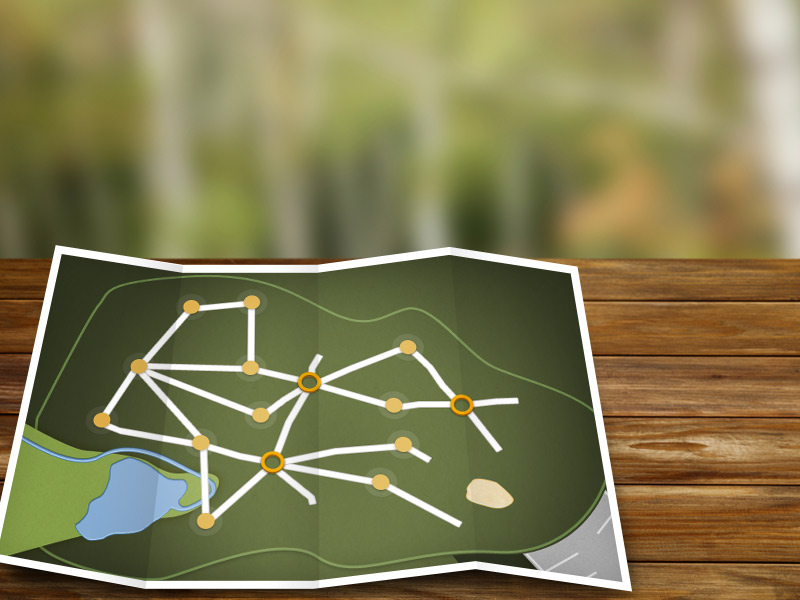
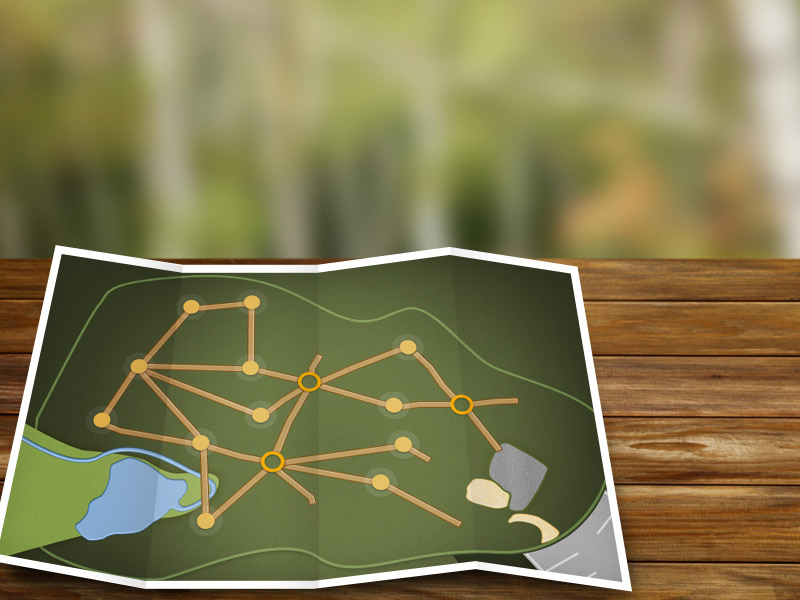
added all other points and updates some images, e.g our map

diff --git a/index.html b/index.html
@@ -35,7 +35,18 @@
 		</section>
 		<map name="Skyloft-Map">
 			<!-- coords definition: x1,y1,x2,y2,x3,y3,x4,y4 -->
-			<area shape="poly" coords="320,378,322,384,402,352,397,347" href="#" data-image="kletter1" data-position-top="172" data-position-left="310" data-arrow-position="left" title="Schlingergrad " alt="Sie sind bereit für das eigentliche Abenteuer. Es gilt, unser Drahtseil über die 20 Meter lange Schlucht in schwindelnder Höhe zu überwinden.">
+			<!-- Kletterstart -->
+			<area shape="poly" coords="473,400,473,406,518,403,518,396" href="#" alt="Sie steigen über eine 14 Meter lange Holzleiter zur Basis-Plattform in die Baumkronen auf." title="Kletterstart" data-image="kletter1" data-position-top="208" data-position-left="200" data-arrow-position="right">
+			<!-- Tanzende Balken -->
+			<area shape="poly" coords="456,394,451,399,410,354,416,349" href="#" alt="Die Balken unter Ihnen schwingen. Nach dem ersten Schritt stellt sich Ihr Körper darauf ein. Sie werden mutiger und spüren, was in Ihnen steckt. " title="Tanzende Balken" data-image="kletter1" data-position-top="172" data-position-left="137" data-arrow-position="right">
+			<!-- Schlingergrad -->
+			<area shape="poly" coords="320,378,322,384,402,352,397,347" href="#" data-image="kletter1" data-position-top="172" data-position-left="182" data-arrow-position="center" title="Schlingergrad " alt="Sie sind bereit für das eigentliche Abenteuer. Es gilt, unser Drahtseil über die 20 Meter lange Schlucht in schwindelnder Höhe zu überwinden.">
+			<!-- Okerbrücke -->
+			<area shape="poly" coords="302,391,308,393,279,453,273,450" href="#" alt="Ihr Start in Ihr persönliches Abenteuer führt Sie über die 15 Meter lange Brücke. Sie setzen auf der schmalen, schwankenden Brücke einen Schritt vor den anderen und Ihr Blick ist starr nach vorne gerichtet." title="Okerbrücke" data-image="kletter1" data-position-top="219" data-position-left="117" data-arrow-position="center">
+			<!-- Schlaufengasse -->
+			<area shape="poly" coords="284,462,282,468,371,485,372,477" href="#" alt="Die Schlaufengasse ist ein richtiger Genuss, schnell koordiniert der Körper die Bewegungen. Sie fühlen sich rundum wohl." title="Schlaufengasse" data-image="kletter1" data-position-top="275" data-position-left="161" data-arrow-position="center">
+			<!-- Back to earth -->
+			<area shape="poly" coords="389,483,461,521,458,527,385,488" href="#" alt="130 Meter weit fliegen Sie auf unserer Seilbahn durch eine Waldschneise zurück zur Basis. Ein großartiger Abschluss für alle Kletterer." title="Back to earth" data-image="kletter1" data-position-top="306" data-position-left="131" data-arrow-position="right">
 		</map>
 		<aside class="infogr__map-helper">
 			<h3>Legende</h3>

diff --git a/css/skyloft.css b/css/skyloft.css
@@ -180,8 +180,8 @@ body {
 /* line 179, ../sass/skyloft.scss */
 .infogr__main-locs .loc {
   position: absolute;
-  width: 42px;
-  height: 60px;
+  width: 35px;
+  height: 35px;
   background-image: url("../img/sprite.png");
   background-repeat: no-repeat;
   opacity: 1;
@@ -201,55 +201,55 @@ body {
 }
 /* line 194, ../sass/skyloft.scss */
 .infogr__main-locs .loc.bbq {
-  background-position: -83px 0;
-  left: 33px;
-  top: 440px;
+  background-position: -120px 0;
+  left: 40px;
+  top: 474px;
   transition-delay: 150ms;
   -webkit-transition-delay: 150ms;
   -moz-transition-delay: 150ms;
 }
 /* line 201, ../sass/skyloft.scss */
 .infogr__main-locs .loc.sea {
-  background-position: -41px 0;
-  top: 448px;
-  left: 112px;
+  background-position: -40px 0;
+  top: 442px;
+  left: 131px;
   transition-delay: 300ms;
   -webkit-transition-delay: 300ms;
   -moz-transition-delay: 300ms;
 }
 /* line 208, ../sass/skyloft.scss */
 .infogr__main-locs .loc.playgr {
-  background-position: -172px 0;
-  top: 437px;
-  left: 459px;
+  background-position: 0 0;
+  top: 454px;
+  left: 464px;
   transition-delay: 450ms;
   -webkit-transition-delay: 450ms;
   -moz-transition-delay: 450ms;
 }
 /* line 215, ../sass/skyloft.scss */
 .infogr__main-locs .loc.shop {
-  background-position: -217px 0;
-  left: 518px;
-  top: 435px;
-  width: 65px;
+  background-position: -200px 0;
+  left: 523px;
+  top: 452px;
+  width: 56px;
   transition-delay: 600ms;
   -webkit-transition-delay: 600ms;
   -moz-transition-delay: 600ms;
 }
 /* line 223, ../sass/skyloft.scss */
 .infogr__main-locs .loc.entry {
-  background-position: -127px 0;
-  top: 506px;
-  left: 463px;
+  background-position: -80px 0;
+  top: 510px;
+  left: 494px;
   transition-delay: 750ms;
   -webkit-transition-delay: 750ms;
   -moz-transition-delay: 750ms;
 }
 /* line 230, ../sass/skyloft.scss */
 .infogr__main-locs .loc.parking {
-  background-position: 0 0;
-  left: 531px;
-  top: 505px;
+  background-position: -160px 0;
+  left: 554px;
+  top: 510px;
   transition-delay: 900ms;
   -webkit-transition-delay: 900ms;
   -moz-transition-delay: 900ms;
@@ -325,7 +325,7 @@ body {
 /* line 298, ../sass/skyloft.scss */
 .ms-tooltip .ms-tooltip__text {
   font-family: Helvetica, sans-serif;
-  font-size: 0.875rem;
+  font-size: 0.75rem;
   width: 190px;
   height: 140px;
   position: absolute;

diff --git a/sass/skyloft.scss b/sass/skyloft.scss
@@ -178,8 +178,8 @@ body {
 
 .infogr__main-locs .loc{
 	position: absolute;
-	width: 42px;
-	height: 60px;
+	width: 35px;
+	height: 35px;
 	background-image: url('../img/sprite.png');
 	background-repeat: no-repeat;
 	opacity: 1;
@@ -192,46 +192,46 @@ body {
 	}
 
 	&.bbq {
-		background-position: -83px 0;
-		left: 33px;
-		top: 440px;
-		@include prefix(transition-delay, $delay * 1)
+		background-position: -120px 0;
+		left: 40px;
+		top: 474px;
+		@include prefix(transition-delay, $delay * 1);
 	}
 
 	&.sea {
-		background-position: -41px 0;
-		top: 448px;
-		left: 112px;
-		@include prefix(transition-delay, $delay * 2)
+		background-position: -40px 0;
+		top: 442px;
+		left: 131px;
+		@include prefix(transition-delay, $delay * 2);
 	}
 
 	&.playgr {
-		background-position: -172px 0;
-		top: 437px;
-		left: 459px;
-		@include prefix(transition-delay, $delay * 3)
+		background-position: 0 0;
+		top: 454px;
+		left: 464px;
+		@include prefix(transition-delay, $delay * 3);
 	}
 
 	&.shop {
-		background-position: -217px 0;
-		left: 518px;
-		top: 435px;
-		width: 65px;
-		@include prefix(transition-delay, $delay * 4)
+		background-position: -200px 0;
+		left: 523px;
+		top: 452px;
+		width: 56px;
+		@include prefix(transition-delay, $delay * 4);
 	}
 
 	&.entry {
-		background-position: -127px 0;
-		top: 506px;
-		left: 463px;
-		@include prefix(transition-delay, $delay * 5)
+		background-position: -80px 0;
+		top: 510px;
+		left: 494px;
+		@include prefix(transition-delay, $delay * 5);
 	}
 
 	&.parking {
-		background-position: 0 0;
-		left: 531px;
-		top: 505px;
-		@include prefix(transition-delay, $delay * 6)
+		background-position: -160px 0;
+		left: 554px;
+		top: 510px;
+		@include prefix(transition-delay, $delay * 6);
 	}
 }
 
@@ -297,7 +297,7 @@ body {
 
 	.ms-tooltip__text {
 		font-family: Helvetica, sans-serif;
-		@include calc(font-size, 14);
+		@include calc(font-size, 12);
 		width: 190px;
 		height: 140px;
 		position: absolute;
